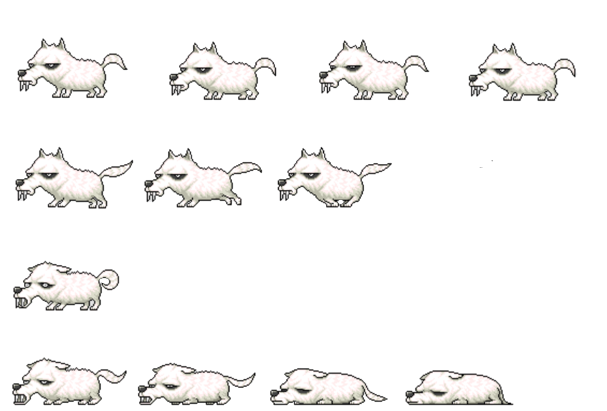
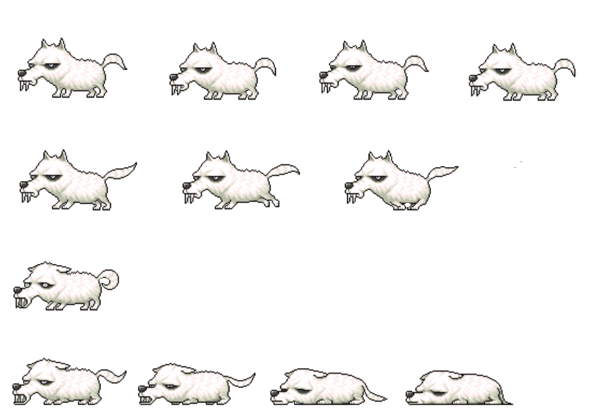
add walking animation to snow monsters

Changed region(s): [[0.0, 0.3504, 0.771, 0.5255]]

diff --git a/oop2_proj/src/FileManager.cpp b/oop2_proj/src/FileManager.cpp
@@ -387,7 +387,7 @@ void FileManager::createSnowMonstersAnimeData()
 
 	//
 	setCurrentData(m_monsterData[LEVEL2][MONSTER1], Walk, movableAnimationSet
-	({ 34, 35 }, { 1, 7 }, 11, 5, Stay), 0.01f, false);
+	({ 37, 35 }, { 1, 53 }, 10, 6, Stay), 0.01f, false);
 
 	// 
 	//setCurrentData(m_monsterData[LEVEL2][MONSTER1], Operation::Hurt, movableAnimationSet
@@ -403,7 +403,7 @@ void FileManager::createSnowMonstersAnimeData()
 
 	//
 	setCurrentData(m_monsterData[LEVEL2][MONSTER2], Walk, movableAnimationSet
-	({ 112, 65 }, { 13, 36 }, 40, 4, Stay), 0.02f, false);
+	({ 125, 65 }, { 13, 145 }, 40, 3, Stay), 0.02f, false);
 
 	// 
 	//setCurrentData(m_monsterData[LEVEL2][MONSTER2], Operation::Hurt, movableAnimationSet
@@ -419,7 +419,7 @@ void FileManager::createSnowMonstersAnimeData()
 
 	//
 	setCurrentData(m_monsterData[LEVEL2][MONSTER3], Walk, movableAnimationSet
-	({ 38, 40 }, { 1, 6 }, 8, 3, Stay), 0.02f, false);
+	({ 45, 40 }, { 1, 56 }, 5, 4, Stay), 0.02f, false);
 
 	// 
 	//setCurrentData(m_monsterData[LEVEL2][MONSTER3], Operation::Hurt, movableAnimationSet
